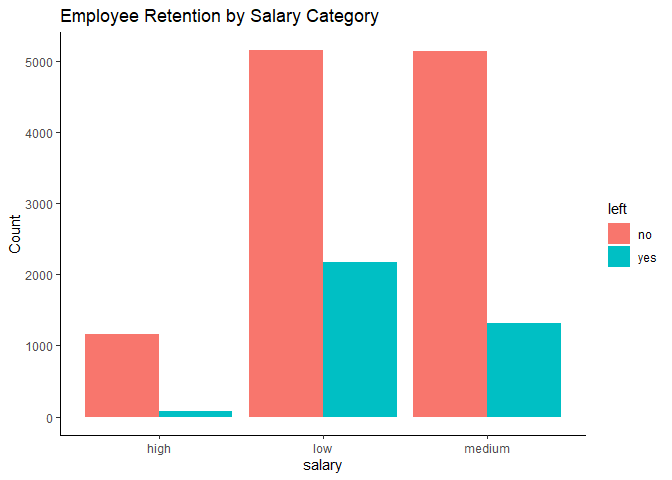
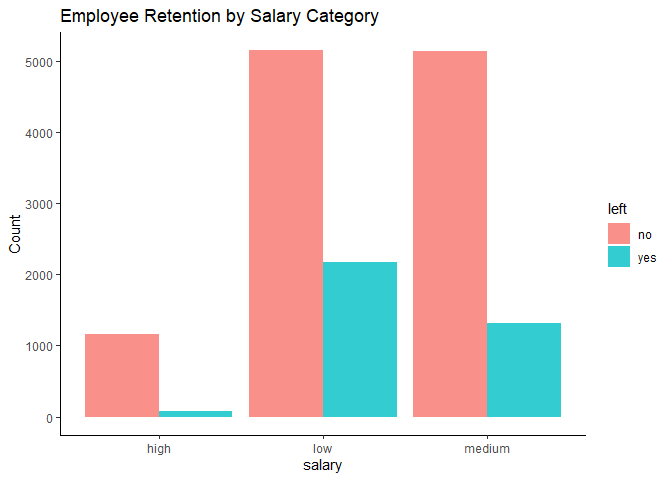
changes

Changed region(s): [[0.125, 0.0938, 0.8438, 0.875], [0.9062, 0.4375, 0.9375, 0.5625]]

diff --git a/Reproducible-project-paper.md b/Reproducible-project-paper.md
@@ -16,6 +16,9 @@ Mwangi George
 -   <a href="#exploratory-data-analysis"
     id="toc-exploratory-data-analysis">Exploratory data analysis</a>
     -   <a href="#findings" id="toc-findings">Findings</a>
+-   <a href="#logistic-regression" id="toc-logistic-regression">Logistic
+    Regression</a>
+    -   <a href="#introduction-1" id="toc-introduction-1">Introduction</a>
 
 ## Introduction
 
@@ -26,7 +29,7 @@ employee retention.
 ## Loading necessary packages.
 
 For consistency of functions and productivity, I prefer working with the
-whole `tidyverse package`.
+wh %\>% ole `tidyverse package`.
 
 ``` r
 # loading the package tidyverse. 
@@ -44,15 +47,8 @@ library(tidyverse)
 
 ``` r
 # loading the package zoo for efficient dummy variable creation.
-library(zoo)
+library(fastDummies)
 ```
-
-    ## 
-    ## Attaching package: 'zoo'
-    ## 
-    ## The following objects are masked from 'package:base':
-    ## 
-    ##     as.Date, as.Date.numeric
 
 ## Loading dataset from working directory
 
@@ -263,7 +259,7 @@ hr_data %>%
 ``` r
 # bar chart showing impact of employees salaries on retention
 ggplot(data = hr_data)+
-  geom_bar(aes(x = salary, fill = left), position = "dodge")+
+  geom_bar(aes(x = salary, fill = left), position = "dodge", alpha = 0.8)+
   labs(title = "Employee Retention by Salary Category", y = "Count")+
   theme_classic()
 ```
@@ -329,9 +325,77 @@ hr_data %>%
 
 From the above chart, most of the employees who left the firm were in
 the sales department, followed by the technical department and then
-support department as the top 3. Based on this exploratory analysis, it
-is safe to say that the variables `satisafaction_level`,
-`number_project`, `average_monthly_hours`, `department`, and `salary`
-have a direct impact on employee retention. Using these variables, I
-will proceed to building a logistic regression model to predict employee
-retention.
+support department as the top 3.
+
+3.  **Correlation between `promotion_last_5years` and employee
+    retention**
+
+``` r
+#Modify the promotion_last_5years variable into "promoted" and "not promoted" for easy understanding of the visualization
+hr_data <- hr_data %>% 
+  mutate(promotion_last_5years = if_else(promotion_last_5years == 1, "promoted", "not promoted"))
+# print the fisrt 3 rows 
+head(hr_data, 3)
+```
+
+    ## # A tibble: 3 × 10
+    ##   satisfa…¹ last_…² numbe…³ avera…⁴ time_…⁵ work_…⁶ left  promo…⁷ depar…⁸ salary
+    ##       <dbl>   <dbl>   <dbl>   <dbl>   <dbl> <fct>   <fct> <chr>   <fct>   <fct> 
+    ## 1      0.38    0.53       2     157       3 0       yes   not pr… sales   low   
+    ## 2      0.8     0.86       5     262       6 0       yes   not pr… sales   medium
+    ## 3      0.11    0.88       7     272       4 0       yes   not pr… sales   medium
+    ## # … with abbreviated variable names ¹satisfaction_level, ²last_evaluation,
+    ## #   ³number_project, ⁴average_montly_hours, ⁵time_spend_company,
+    ## #   ⁶work_accident, ⁷promotion_last_5years, ⁸department
+
+``` r
+# count the number of employee in each promotion category and group by whether they left or not
+xtabs(~ promotion_last_5years + left, data = hr_data)
+```
+
+    ##                      left
+    ## promotion_last_5years    no   yes
+    ##          not promoted 11128  3552
+    ##          promoted       300    19
+
+``` r
+# visualizing the above table
+hr_data %>% 
+  ggplot(aes(promotion_last_5years, fill = left))+
+  geom_bar(position = "dodge", alpha = 0.8)+
+  theme_classic()+
+  labs(title = "Employe Retention by Promotion last 5 years")
+```
+
+![](Reproducible-project-paper_files/figure-gfm/unnamed-chunk-11-1.png)<!-- -->
+
+From the above table and bar chart, not receiving a promotion has a high
+impact on retention. Out of a total of 3571 employees who left the
+company, 3552(about 99 percent) did not receive a promotion in the last
+five years. This produces the idea that the variable
+`promotion_last_5years` has a direct on employee retention.
+
+Based on this exploratory analysis, it is safe to say that the variables
+`satisfaction_level`, `average_monthly_hours`, `promotion_last_5years`,
+and `salary` have a direct impact on employee retention. Using these
+variables, I will proceed to building a logistic regression model to
+predict employee retention.
+
+## Logistic Regression
+
+### Introduction
+
+-   Logistic regression utilizes the method of maximum likelihood
+    estimation to identify an equation of the form *log\[p(X)/(1-p(x))\]
+    = B0 +B1X1 +B2X2 + … + BnXn*.
+
+-   The right hand side of the equation predicts the logit (log odds) of
+    the dependent variable taking the value 1. In my case, I am
+    predicting the probability of leaving (1) using the variables
+    `satisfaction_level`, `average_monthly_hours`,
+    `promotion_last_5years`, and `salary`.
+
+-   Forming an equation to represent this
+
+-   \`left = B0 + B1 x satisfaction_level + B2 x average_monthly_hours +
+    B3 x promotion_last_5years + B4 x salary
